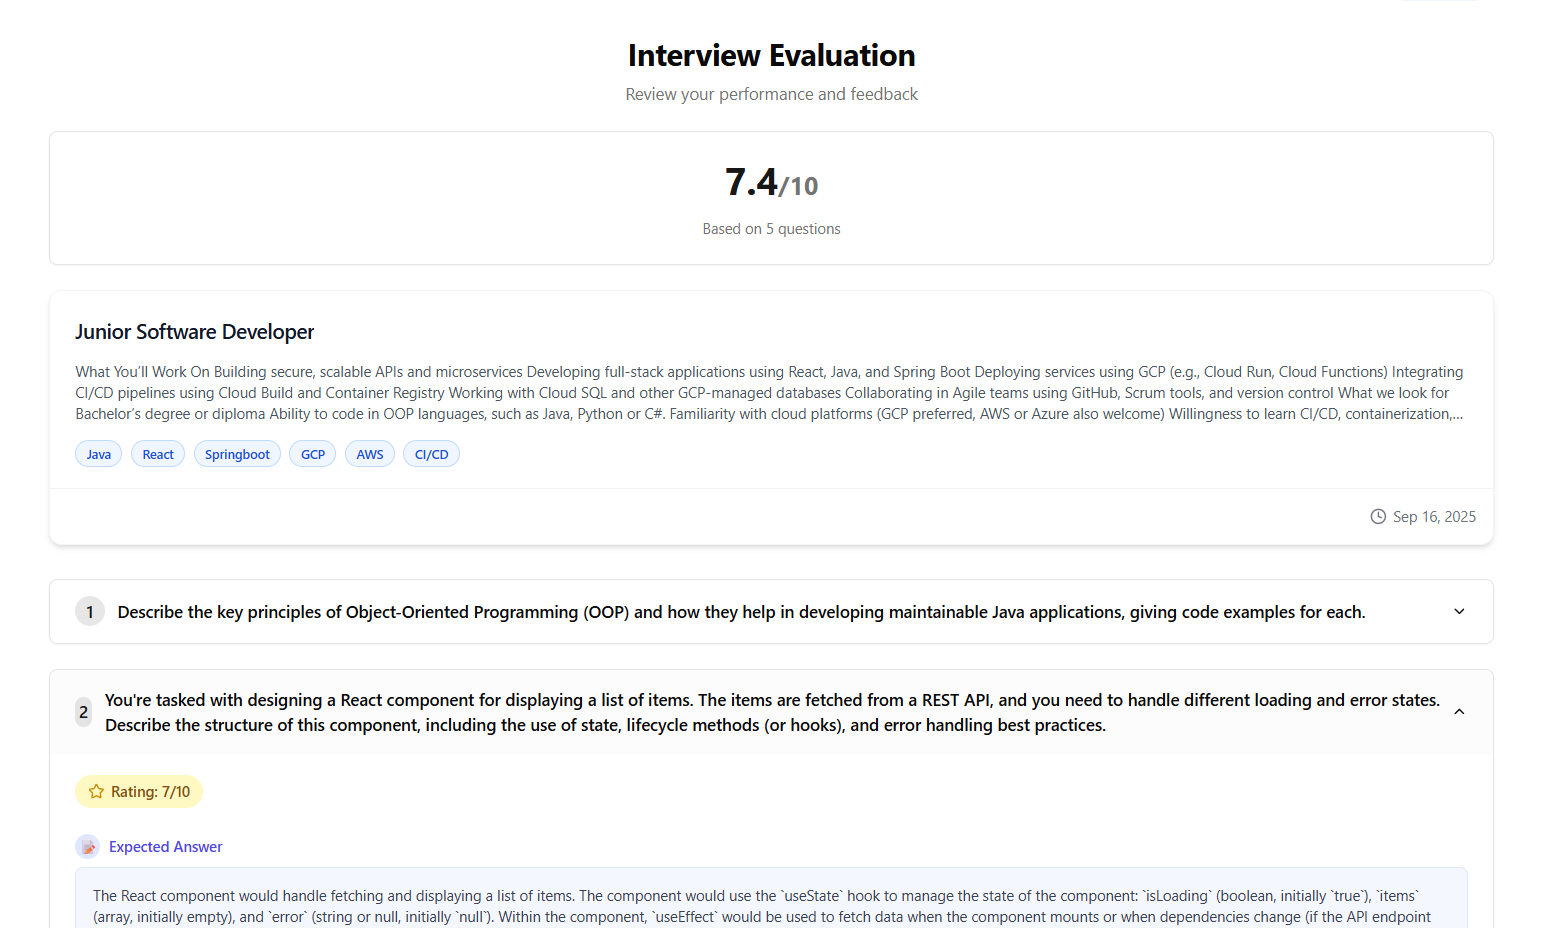
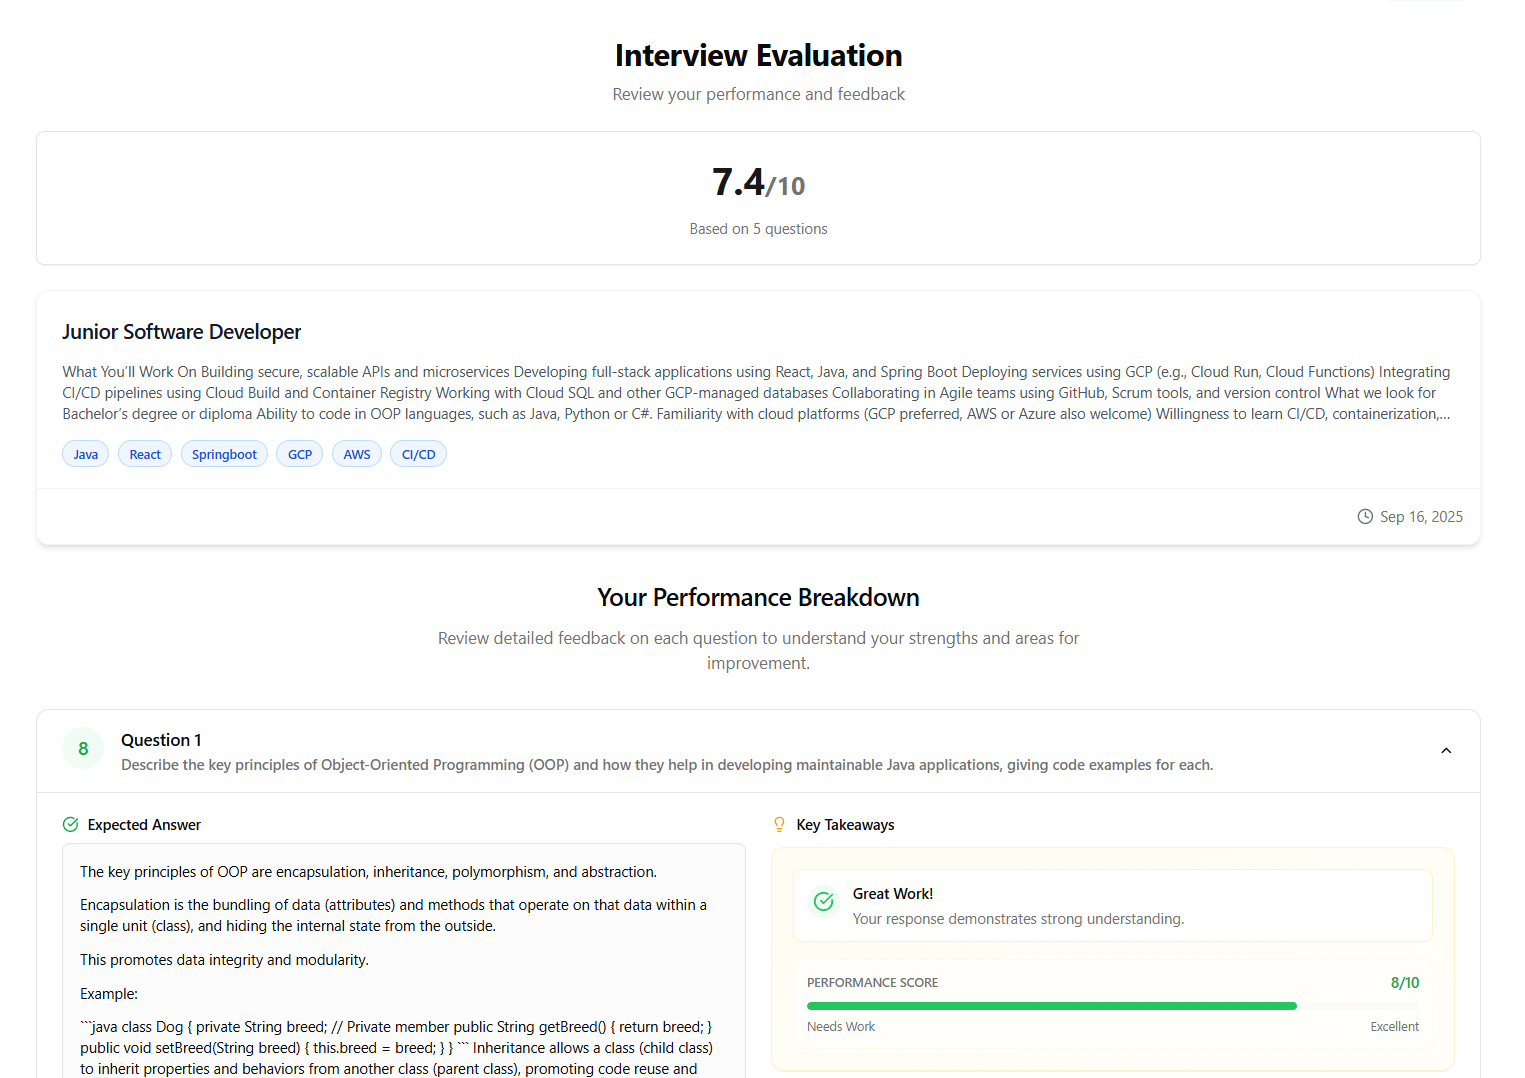
update evaluation page

diff --git a/src/routes/evaluation-pg.tsx b/src/routes/evaluation-pg.tsx
@@ -22,7 +22,7 @@ import {
   AccordionTrigger,
 } from "@/components/ui/accordion";
 import { cn } from "@/lib/utils";
-import { Star } from "lucide-react";
+import { Star, CheckCircle, AlertCircle, Lightbulb } from "lucide-react";
 
 export const EvaluationPg = () => {
   const { interviewId } = useParams<{ interviewId: string }>();
@@ -155,102 +155,212 @@ export const EvaluationPg = () => {
         {interview && <InterviewCard interview={interview} onMockPage />}
       </div>
 
-      {evaluations && (
-        <Accordion type="single" collapsible className="space-y-6">
-          {evaluations.map((evaluationItem) => (
-            <AccordionItem
-              key={evaluationItem.id}
-              value={evaluationItem.id}
-              className="border rounded-lg overflow-hidden shadow-sm hover:shadow transition-all"
-            >
-              <AccordionTrigger
-                onClick={() => setActiveEvaluate(evaluationItem.id)}
-                className={cn(
-                  "px-6 py-4 flex items-center justify-between text-base transition-colors hover:no-underline hover:bg-accent/50",
-                  activeEvaluate === evaluationItem.id && "bg-accent/30"
-                )}
-              >
-                <div className="flex items-center gap-3">
-                  <div className="flex items-center justify-center w-7 h-7 rounded-full bg-primary/10 text-primary font-medium">
-                    {evaluations.findIndex(e => e.id === evaluationItem.id) + 1}
-                  </div>
-                  <span className="text-left">{evaluationItem.question}</span>
-                </div>
-              </AccordionTrigger>
+      <div className="space-y-8">
+        <div className="text-center space-y-3">
+          <h2 className="text-2xl font-semibold tracking-tight">Your Performance Breakdown</h2>
+          <p className="text-muted-foreground max-w-2xl mx-auto">
+            Review detailed feedback on each question to understand your strengths and areas for improvement.
+          </p>
+        </div>
 
-              <AccordionContent className="px-6 py-5 bg-white space-y-6">
-                <div className={`inline-flex items-center px-3 py-1.5 rounded-full text-sm font-medium ${
-                  evaluationItem.rating >= 8 ? 'bg-green-100 text-green-800' : 
-                  evaluationItem.rating >= 5 ? 'bg-yellow-100 text-yellow-800' : 
-                  'bg-red-100 text-red-800'
-                }`}>
-                  <Star className={`w-4 h-4 mr-1.5 ${
-                    evaluationItem.rating >= 8 ? 'text-green-600' : 
-                    evaluationItem.rating >= 5 ? 'text-yellow-600' : 
-                    'text-red-600'
-                  }`} />
-                  Rating: {evaluationItem.rating}/10
-                </div>
-
-                <div className="space-y-4">
-                  <div className="space-y-2">
-                    <h3 className="flex items-center text-sm font-medium text-indigo-600">
-                      <div className="w-6 h-6 rounded-full bg-indigo-100 flex items-center justify-center mr-2">
-                        <span className="text-indigo-600">📝</span>
+        {evaluations && (
+          <Accordion type="multiple" className="space-y-4">
+            {evaluations.map((evaluationItem, index) => {
+              const rating = evaluationItem.rating || 0;
+              const ratingColor = rating >= 8 ? 'text-green-600' : rating >= 5 ? 'text-yellow-600' : 'text-red-600';
+              const ratingBg = rating >= 8 ? 'bg-green-50' : rating >= 5 ? 'bg-yellow-50' : 'bg-red-50';
+              
+              return (
+                <AccordionItem
+                  key={evaluationItem.id}
+                  value={evaluationItem.id}
+                  className="border rounded-xl overflow-hidden transition-all hover:shadow-md"
+                >
+                  <AccordionTrigger
+                    onClick={() => setActiveEvaluate(activeEvaluate === evaluationItem.id ? '' : evaluationItem.id)}
+                    className={cn(
+                      "px-6 py-4 hover:no-underline hover:bg-muted/30 transition-colors text-left",
+                      activeEvaluate === evaluationItem.id && "bg-muted/20"
+                    )}
+                  >
+                    <div className="flex gap-4 w-full">
+                      <div className={`flex-shrink-0 w-10 h-10 rounded-full ${ratingBg} flex items-center justify-center`}>
+                        <span className={`text-lg font-semibold ${ratingColor}`}>{rating}</span>
                       </div>
-                      Expected Answer
-                    </h3>
-                    <div className="bg-indigo-50/60 p-4 rounded-lg text-sm border border-indigo-100 text-gray-700">
-                      {evaluationItem.correct_ans}
-                    </div>
-                  </div>
-
-                  <div className="space-y-2">
-                    <h3 className="flex items-center text-sm font-medium text-blue-600">
-                      <div className="w-6 h-6 rounded-full bg-blue-100 flex items-center justify-center mr-2">
-                        <span className="text-blue-600">✏</span>
+                      <div className="flex-1 min-w-0">
+                        <div className="font-medium">Question {index + 1}</div>
+                        <div className={cn(
+                          "text-sm text-muted-foreground mt-0.5",
+                          activeEvaluate === evaluationItem.id ? "whitespace-pre-wrap" : "line-clamp-1"
+                        )}>
+                          {evaluationItem.question}
+                        </div>
                       </div>
-                      Your Answer
-                    </h3>
-                    <div className="bg-blue-50/60 p-4 rounded-lg text-sm border border-blue-100 text-gray-700">
-                      {evaluationItem.user_ans}
                     </div>
-                  </div>
+                  </AccordionTrigger>
 
-                  <div className="space-y-2">
-                    <h3 className="flex items-center text-sm font-medium text-emerald-600 mb-2">
-                      <div className="w-6 h-6 rounded-full bg-emerald-100 flex items-center justify-center mr-2">
-                        <span className="text-emerald-600">🔍</span>
+                  <AccordionContent className="px-6 py-5 bg-white space-y-6 border-t">
+                    <div className="grid md:grid-cols-2 gap-6">
+                      {/* Left Column - Expected Answer */}
+                      <div className="space-y-4">
+                        <div className="space-y-2">
+                          <h3 className="flex items-center text-sm font-medium text-foreground">
+                            <CheckCircle className="w-4 h-4 mr-2 text-green-600" />
+                            Expected Answer
+                          </h3>
+                          <div className="bg-muted/30 p-4 rounded-lg text-sm border text-foreground">
+                            {(() => {
+                              const formattedAnswer = evaluationItem.correct_ans
+                                .replace(/^\s*[-*]\s+(.+)$/gm, '• $1')
+                                .replace(/([.!?])([A-Z])/g, '$1 $2')
+                                .replace(/^(\d+)\.\s+/gm, '$1. ')
+                                .replace(/([.!?])\s*(?=[A-Z])/g, '$1  \n\n');
+                              
+                              return (
+                                <div className="prose prose-sm max-w-none">
+                                  {formattedAnswer.split('\n\n').map((paragraph, i) => (
+                                    <p key={i} className="mb-3 last:mb-0">
+                                      {paragraph.trim().split('• ').map((item, j) => 
+                                        j === 0 ? item : (
+                                          <span key={j} className="block pl-4 -indent-4">
+                                            • {item.trim()}
+                                          </span>
+                                        )
+                                      )}
+                                    </p>
+                                  ))}
+                                </div>
+                              );
+                            })()}
+                          </div>
+                        </div>
                       </div>
-                      Detailed Feedback
-                    </h3>
-                    <div className="bg-emerald-50/50 p-4 rounded-lg border border-emerald-100">
-                      <p className={cn(
-                        "text-gray-700 leading-relaxed whitespace-pre-line text-sm [&>p]:mb-3 [&>p:last-child]:mb-0",
-                        !evaluationItem.evaluation && "text-muted-foreground italic"
-                      )}>
-                        {evaluationItem.evaluation
-                          ?.replace(/^•\s*/gm, '')  // Remove bullet points
-                          .trim()
-                          .replace(/\n{3,}/g, '\n\n')  // Normalize multiple newlines
-                          .replace(/([.!?])([A-Z])/g, '$1 $2')  // Add space after punctuation
-                          .split('\n')
-                          .map((paragraph, i) => (
-                            <p key={i} className="mb-3 last:mb-0">
-                              {paragraph}
-                            </p>
-                          ))
-                          || <span className="text-muted-foreground">No evaluation available yet</span>
-                        }
-                      </p>
+
+                      {/* Right Column - Key Takeaways */}
+                      <div className="space-y-4">
+                        <div className="space-y-3">
+                          <h3 className="flex items-center text-sm font-medium text-foreground">
+                            <Lightbulb className="w-4 h-4 mr-2 text-amber-500" />
+                            Key Takeaways
+                          </h3>
+                          <div className="bg-gradient-to-br from-amber-50/70 to-amber-50/30 p-5 rounded-xl border border-amber-100 shadow-sm">
+                            <div className="space-y-4">
+                              {/* Performance Summary */}
+                              <div className="flex items-start gap-3 p-3 bg-white rounded-lg border border-amber-100">
+                                <div className="mt-0.5 flex-shrink-0">
+                                  {rating >= 7 ? (
+                                    <div className="p-1.5 rounded-full bg-green-50">
+                                      <CheckCircle className="w-5 h-5 text-green-500" />
+                                    </div>
+                                  ) : (
+                                    <div className="p-1.5 rounded-full bg-amber-50">
+                                      <AlertCircle className="w-5 h-5 text-amber-500" />
+                                    </div>
+                                  )}
+                                </div>
+                                <div className="space-y-1">
+                                  <h4 className="text-sm font-semibold text-foreground">
+                                    {rating >= 7 ? 'Great Work!' : 'Areas to Improve'}
+                                  </h4>
+                                  <p className="text-sm text-muted-foreground leading-snug">
+                                    {rating >= 7 
+                                      ? 'Your response demonstrates strong understanding.'
+                                      : 'Here are some suggestions to enhance your response:'}
+                                  </p>
+                                </div>
+                              </div>
+
+                              {/* Score Visualization */}
+                              <div className="space-y-2 p-3 bg-white/50 rounded-lg border border-amber-50">
+                                <div className="flex items-center justify-between">
+                                  <span className="text-xs font-medium text-muted-foreground">PERFORMANCE SCORE</span>
+                                  <span className={`text-sm font-semibold ${ratingColor}`}>{rating}/10</span>
+                                </div>
+                                <div className="h-2 w-full bg-muted/50 rounded-full overflow-hidden">
+                                  <div 
+                                    className={`h-full rounded-full transition-all duration-500 ease-out ${
+                                      rating >= 8 ? 'bg-green-500' : rating >= 5 ? 'bg-yellow-500' : 'bg-red-500'
+                                    }`}
+                                    style={{ width: `${rating * 10}%` }}
+                                  ></div>
+                                </div>
+                                <div className="flex justify-between text-xs text-muted-foreground mt-1">
+                                  <span>Needs Work</span>
+                                  <span>Excellent</span>
+                                </div>
+                              </div>
+
+                              {/* Quick Tips */}
+                              {rating < 8 && (
+                                <div className="space-y-2">
+                                  <h4 className="text-xs font-medium text-foreground">QUICK TIPS</h4>
+                                  <ul className="space-y-2 text-sm">
+                                    <li className="flex items-start gap-2">
+                                      <span className="text-amber-500 mt-0.5">•</span>
+                                      <span>Review the expected answer for key points</span>
+                                    </li>
+                                    <li className="flex items-start gap-2">
+                                      <span className="text-amber-500 mt-0.5">•</span>
+                                      <span>Structure your response clearly</span>
+                                    </li>
+                                    <li className="flex items-start gap-2">
+                                      <span className="text-amber-500 mt-0.5">•</span>
+                                      <span>Use specific examples when possible</span>
+                                    </li>
+                                  </ul>
+                                </div>
+                              )}
+                            </div>
+                          </div>
+                        </div>
+
+                        {/* Your Answer - Moved under Key Takeaways */}
+                        <div className="space-y-2">
+                          <h3 className="flex items-center text-sm font-medium text-foreground">
+                            <AlertCircle className="w-4 h-4 mr-2 text-blue-600" />
+                            Your Answer
+                          </h3>
+                          <div className="bg-blue-50/60 p-4 rounded-lg text-sm border border-blue-100 text-foreground">
+                            {evaluationItem.user_ans}
+                          </div>
+                        </div>
+                      </div>
                     </div>
-                  </div>
-                </div>
-              </AccordionContent>
-            </AccordionItem>
-          ))}
-        </Accordion>
-      )}
+
+                    <div className="space-y-3">
+                      <h3 className="text-sm font-medium text-foreground flex items-center">
+                        <Lightbulb className="w-4 h-4 mr-2 text-purple-600" />
+                        Detailed Feedback
+                      </h3>
+                      <div className="bg-muted/30 p-4 rounded-lg border">
+                        {evaluationItem.evaluation ? (
+                          <div className="prose prose-sm max-w-none text-foreground">
+                            {evaluationItem.evaluation
+                              ?.replace(/^•\s*/gm, '')
+                              .trim()
+                              .split('\n')
+                              .filter(para => para.trim())
+                              .map((paragraph, i) => (
+                                <div key={i} className="mb-3 last:mb-0">
+                                  <p className="mb-2">
+                                    {paragraph.trim().replace(/([.!?])([A-Z])/g, '$1 $2')}
+                                  </p>
+                                  {i < evaluationItem.evaluation.split('\n').length - 2 && <div className="h-px bg-border my-3"></div>}
+                                </div>
+                              ))}
+                          </div>
+                        ) : (
+                          <p className="text-muted-foreground italic">No detailed feedback available for this response.</p>
+                        )}
+                      </div>
+                    </div>
+                  </AccordionContent>
+                </AccordionItem>
+              );
+            })}
+          </Accordion>
+        )}
+      </div>
     </div>
   );
 };
